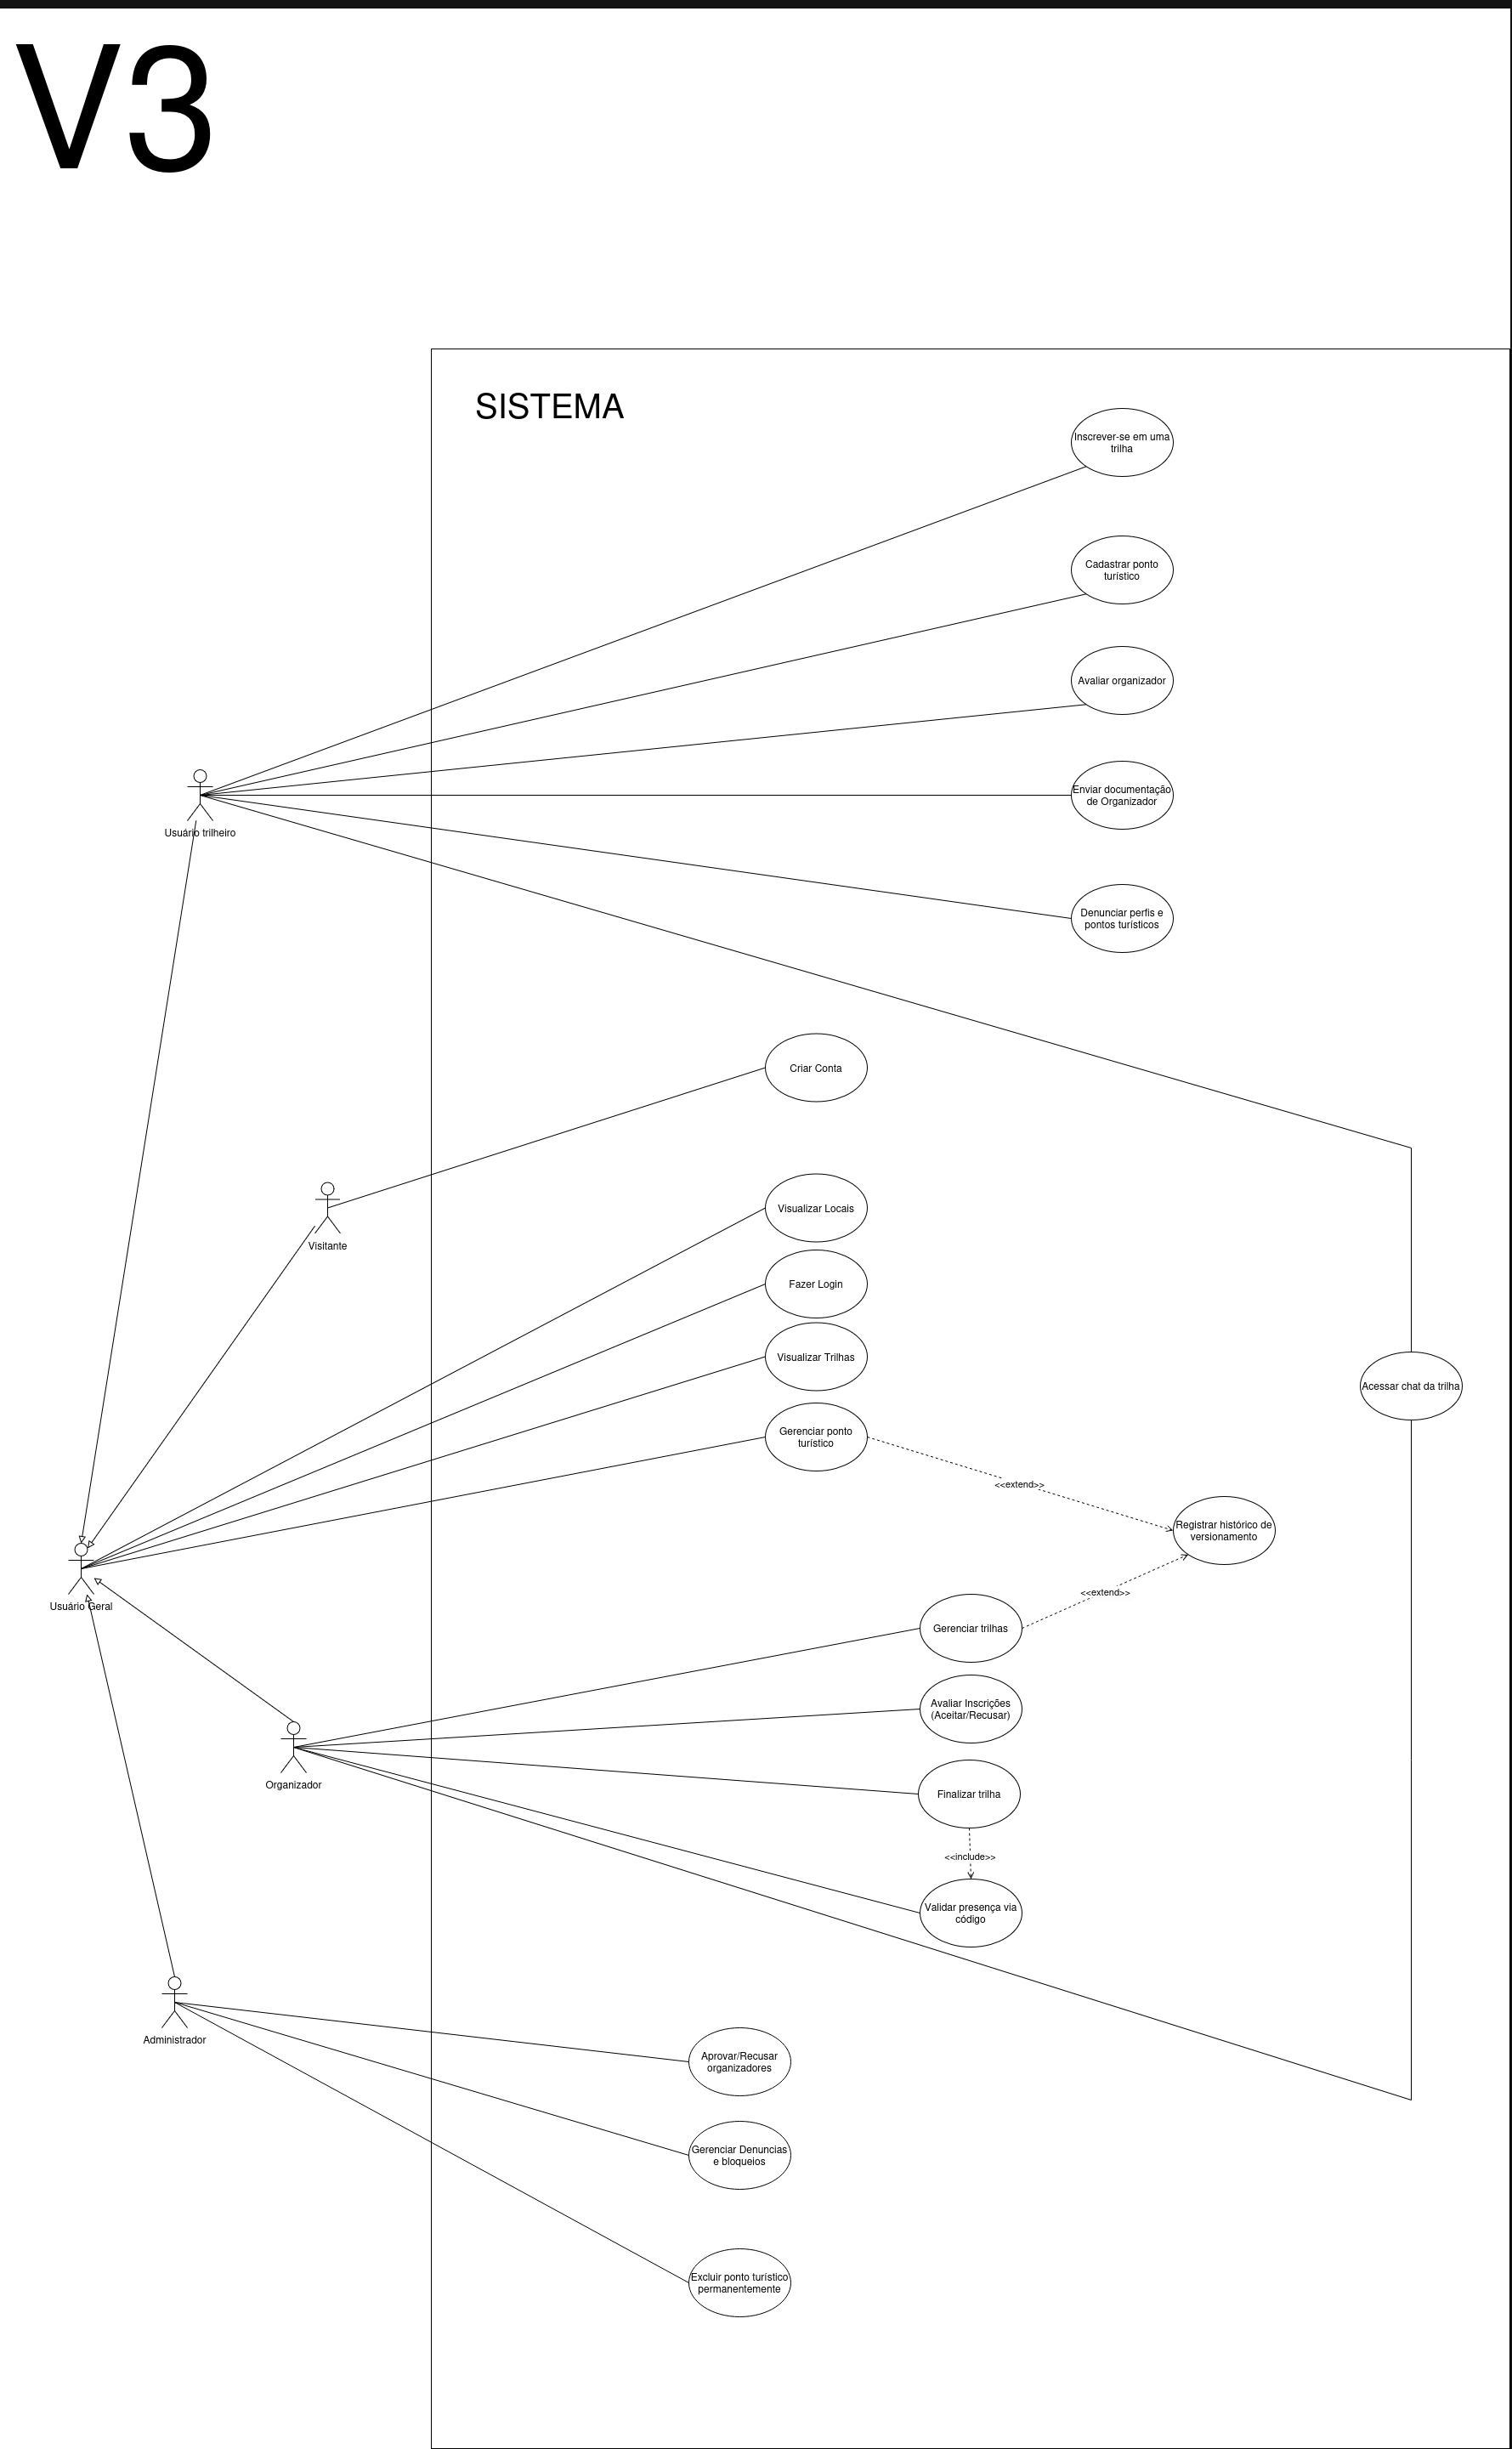
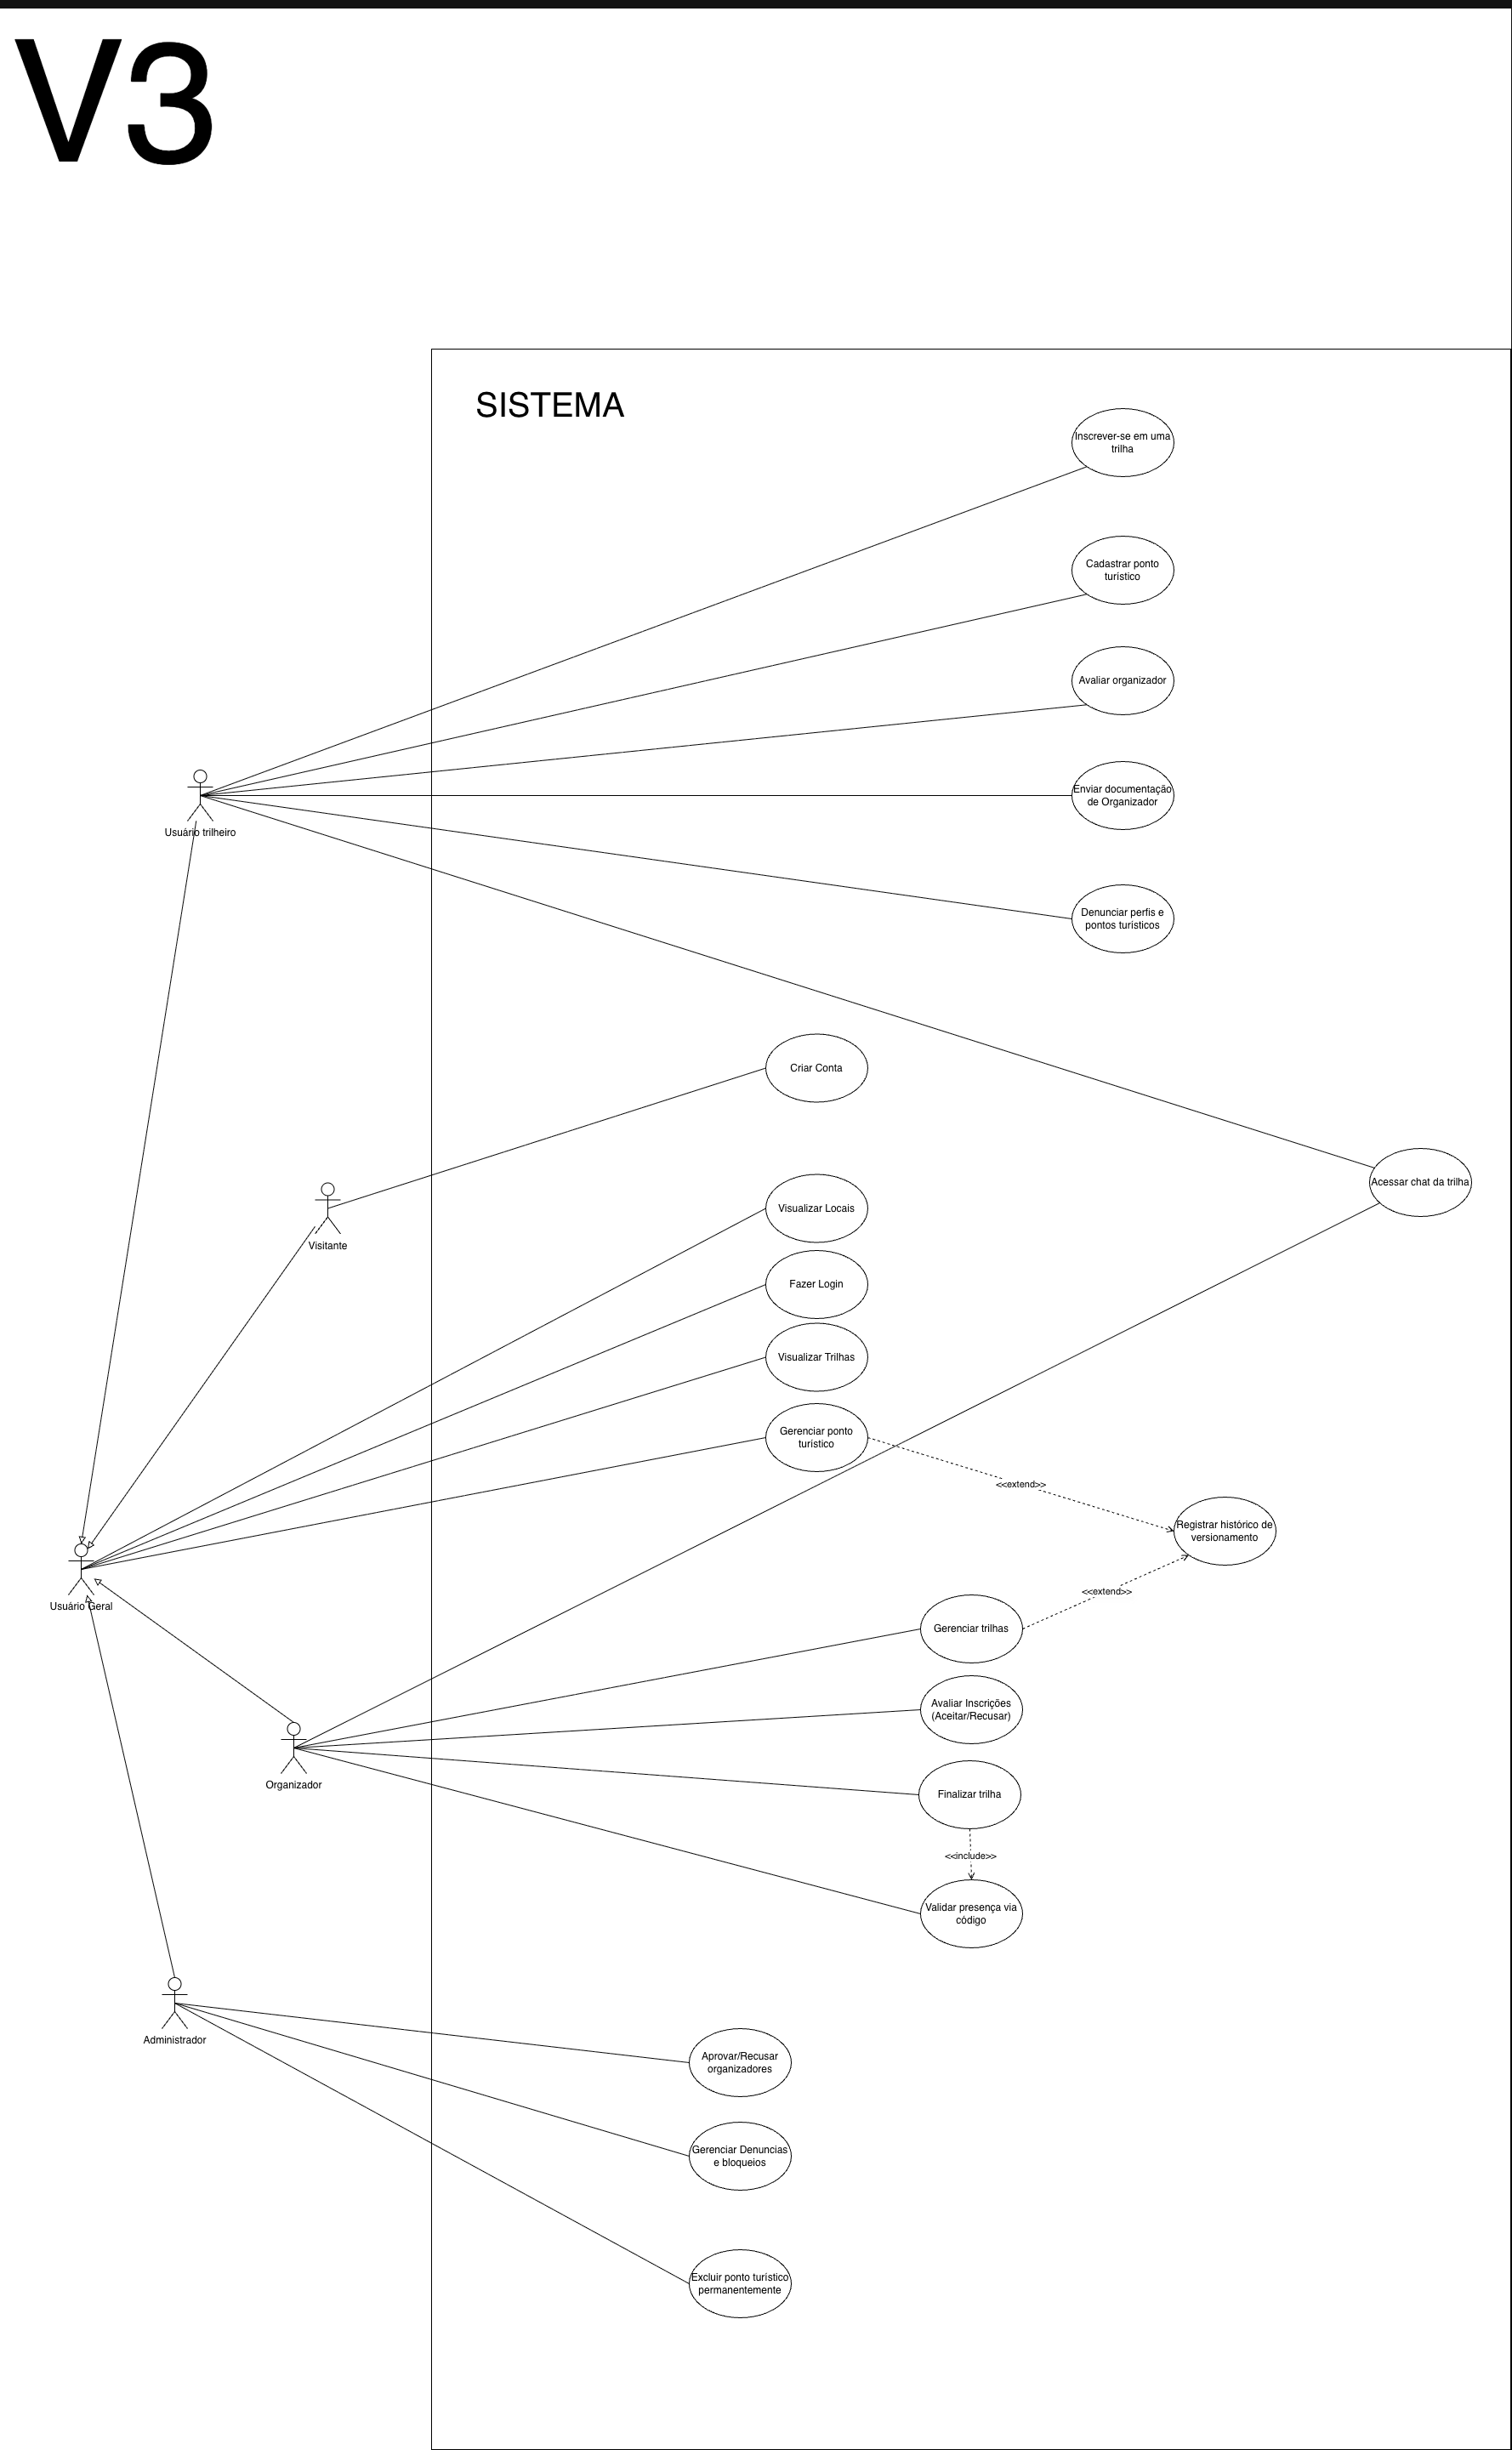
docs: add feedback e comprobatorio

diff --git a/docs/Modelagem/2.4.ParticipacoesModelagem.md b/docs/Modelagem/2.4.ParticipacoesModelagem.md
@@ -84,6 +84,22 @@ Breve relato sobre as participações/contribuições de cada membro à entrega.
 | **Mário Vinícius** | Análise e validação arquitetural, destacando a maturidade da evolução entre a V1 (foco em negócio) e a V2 (foco técnico e backend). | Excelente | Registro de feedback em [Tabela de Feedbacks](https://unbarqdsw2026-1-turma01.github.io/2026.1-T01-_G5_BelezasNaturaisBrasileiras_Entrega_02/#/Modelagem/2.3.ModelagemOrganizacionalCasosDeUso?id=tabela-de-feedbacks). |
 ---
 
+## Comprobatórios
+
+A seguir estão os prints de comprovação referentes ao módulo de Modelagem Organizacional.
+
+![Comprovante MO1](../assets/fase_2/images/compMO1.png)
+*Comprovante MO1: evidência de validação inicial da modelagem organizacional.*
+
+![Comprovante MO2](../assets/fase_2/images/COMPMO2.png)
+*Comprovante MO2: evidência de revisão e ajustes no controle de acesso e papéis.*
+
+![Comprovante MO3](../assets/fase_2/images/compMO3.png)
+*Comprovante MO3: evidência das análises e correções de casos de uso.*
+
+![Comprovante MO4](../assets/fase_2/images/COMPOM4.png)
+*Comprovante MO4: evidência final de conferência e aprovação da modelagem.*
+
 # Comprobatórios Gerais que se Aplicam a Todos os Módulos
 
 No dia **20/04**, foi realizada uma reunião geral com a participação da maior parte dos membros da equipe, com o objetivo de definir um modelo de trabalho que garantisse **participação coletiva**, **rastreabilidade** e **versionamento adequado**, conforme exigido pela disciplina.

diff --git a/docs/Modelagem/2.3.ModelagemOrganizacionalCasosDeUso.md b/docs/Modelagem/2.3.ModelagemOrganizacionalCasosDeUso.md
@@ -162,4 +162,4 @@ Durante um processo de avaliação feito pela própria equipe, realizamos uma re
 | 2.0 | 20/04/2026 | Refinamento do diagrama conforme normas UML 2.5, aplicação de herança e otimização de relacionamentos. | [Ana Luiza](https://github.com/ana-pfeilsticker) | Breno Alexandre | **Revisão aprovada:** O diagrama foi refatorado com sucesso. A introdução do "Usuário Geral" (herança) limpou a poluição visual e o RBAC está claramente representado. Artefato validado para entrega. |
 | 3.0 | 22/04/2026 | Refinamento do diagrama conforme normas UML 2.5, adição de casos de uso relacionados ao chat e adição de matriz de rastreabilidade de requisitos. | [Ana Luiza](https://github.com/ana-pfeilsticker) | Breno Alexandre| **Revisão solicitada:** Inclusão validada dos casos de uso relacionados ao chat, garantindo alinhamento com os requisitos RF05 e RN03. A matriz de rastreabilidade foi corretamente estruturada, fortalecendo a consistência entre requisitos e modelagem. Recomenda-se apenas revisão textual final para padronização de nomenclatura entre os artefatos. |
 | 4.0 | 23/04/2026 | Adição da tabela de feedback dos membros do grupo | [Ana Luiza](https://github.com/ana-pfeilsticker) | Miguel Arthur | **Revisão solicitada:** A consolidação dos feedbacks reflete o exercício do senso crítico da equipe, transformando as revisões cruzadas em comprobatórios reais de evolução e refinamento dos artefatos. |
-| 5.0 | 24/04/2026 | Refinamento do diagrama conforme feedback dado pela equipe, adição da nova evolução do diagrama, alteração de detalhes no artefato para entrar em conforme com a nova versão e correção de padronização no histórico de versionamento. | [Breno Alexandre](https://github.com/brenoalexandre0) | [Ana Luiza](https://github.com/ana-pfeilsticker) | **Revisão solicitada:** PREENCHER. |
+| 5.0 | 24/04/2026 | Refinamento do diagrama conforme feedback dado pela equipe, adição da nova evolução do diagrama, alteração de detalhes no artefato para entrar em conforme com a nova versão e correção de padronização no histórico de versionamento. | [Breno Alexandre](https://github.com/brenoalexandre0) | [Ana Luiza](https://github.com/ana-pfeilsticker) | **Revisão solicitada:** Os ajustes ficaram bons e coerentes com o que foi solicitado. Fiz apenas uma adequação nas setas do uml que devem ser RETAS e sem angulos de 90 graus, a visualização fica melhor. De resto, acredito que esteja tudo de acordo com os feedbacks. |